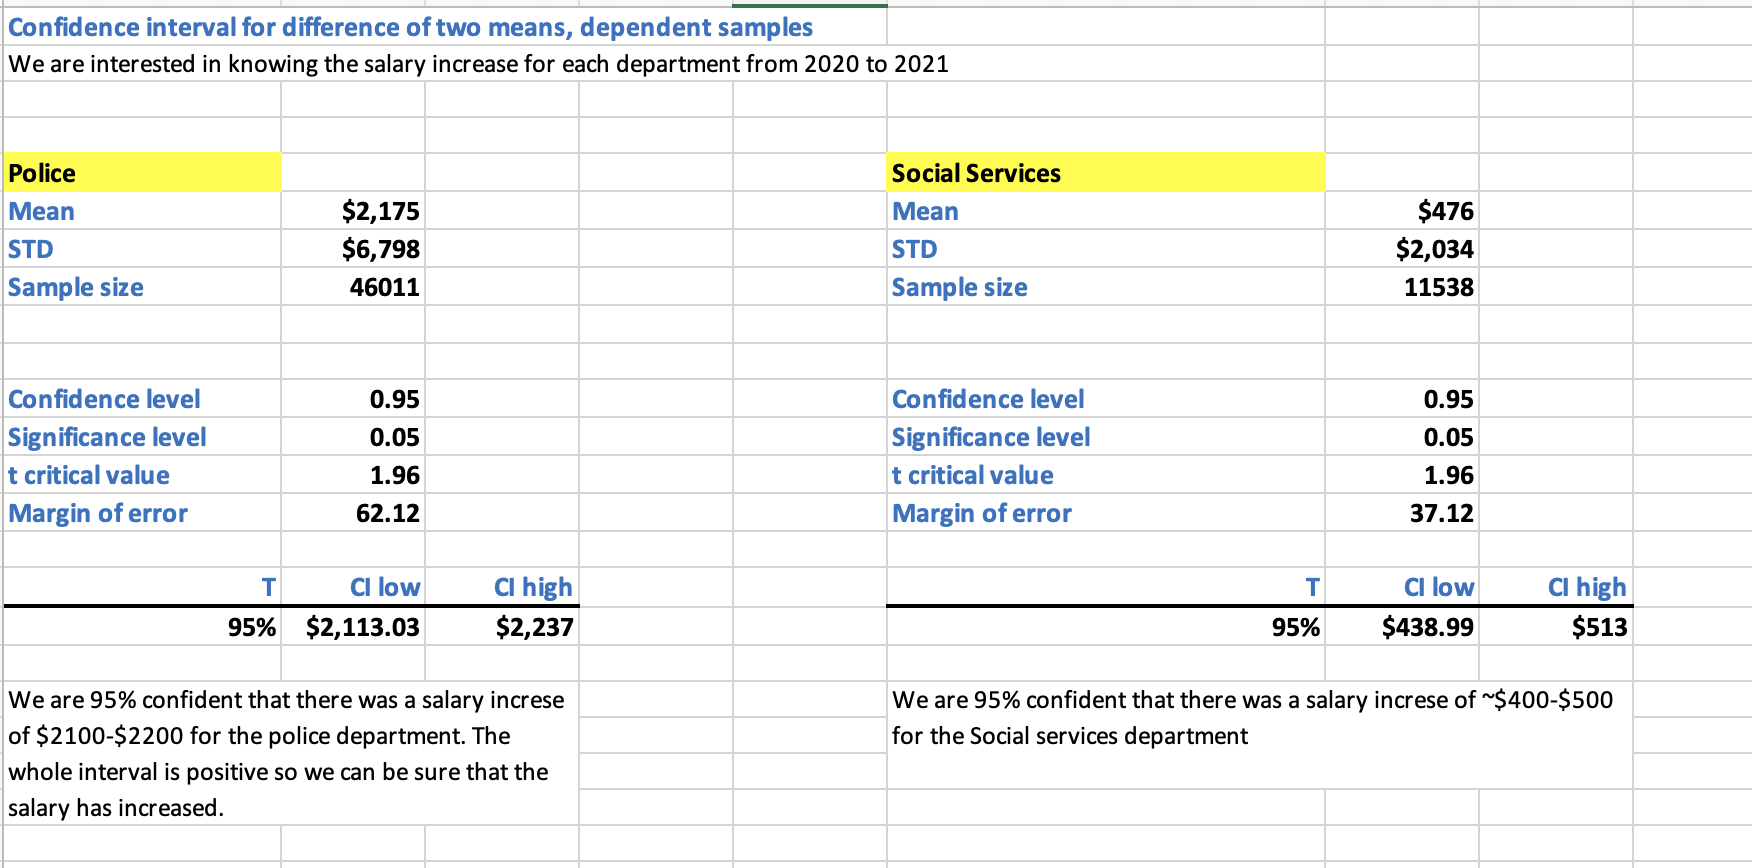
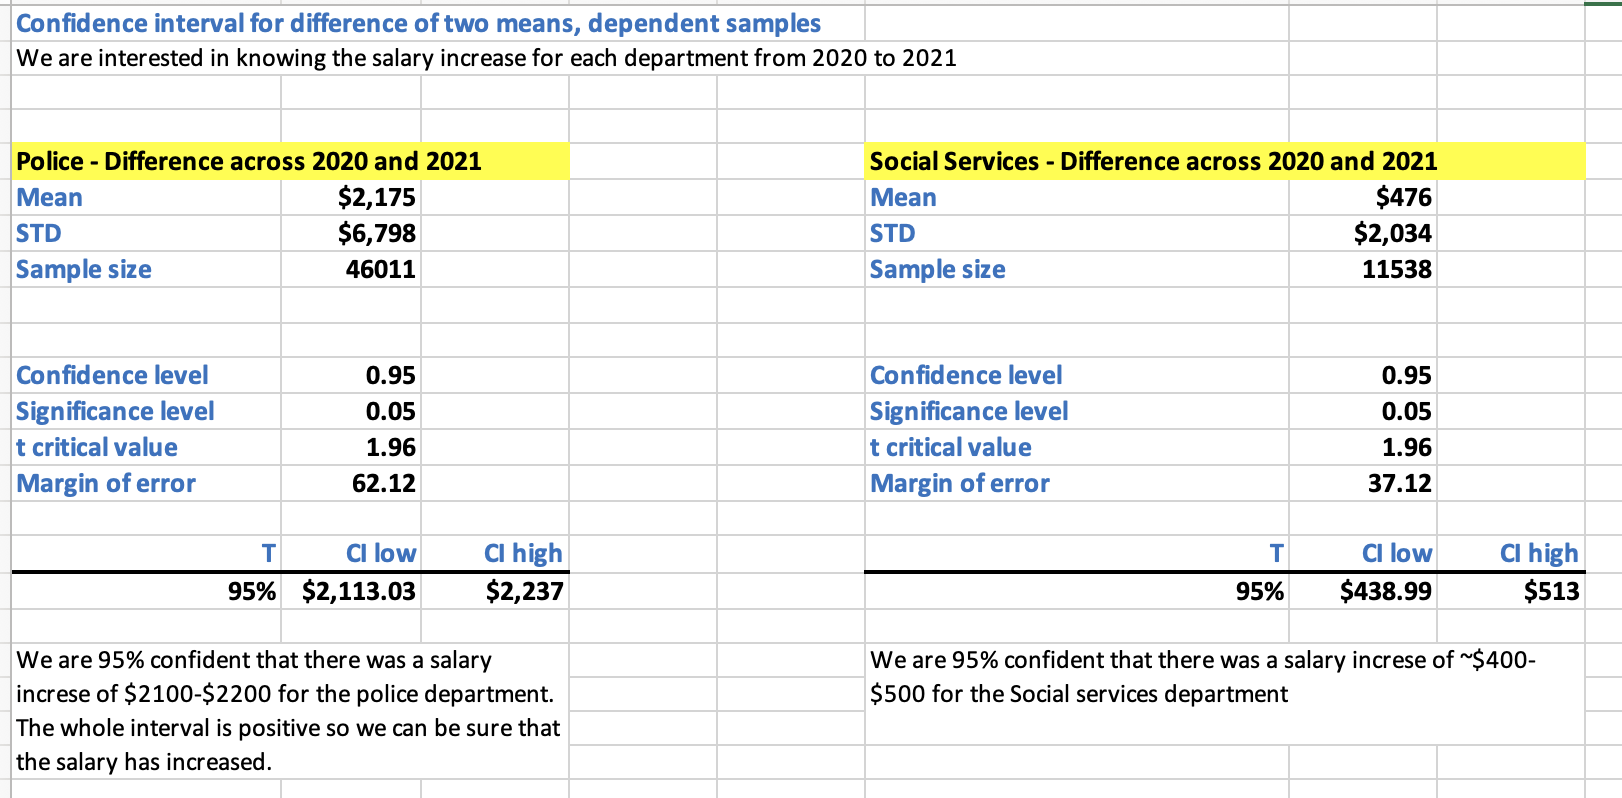
added episode 12

Changed region(s): [[0.0, 0.391, 1.0, 0.9925], [0.0, 0.0, 1.0, 0.3609]]

diff --git a/_posts/2024-04-25-episode12.md b/_posts/2024-04-25-episode12.md
@@ -42,9 +42,11 @@ We make the following observations and come up with relevant questions related t
 
 ### Inferential Statistics:  
 
-1. ### Single sample, Confidence Interval for Mean: 
+1. ### Confidence Interval for Mean, Single population: 
 
-+ <span style="color:blue">Step 2(a): If we know the population variance for the salary of each department, calculate the confidence interval for the mean salary of a police officer and a social worker in New York for the year 2020. Assuming that the police department's salary has a population standard deviation of $80k and social services has a population standard deviation of $60k.</span>  
++ <span style="color:blue">Step 2(a): If we know the population variance for the salary of each department, calculate the confidence interval for the mean salary of a police officer and a social worker in New York for the year 2020. 
+
+Assume that the police department's salary has a population standard deviation of $80k and social services has a population standard deviation of $60k.</span>  
 
 Refer to sheet **"1. Known variance, CI, z-table"** in inferential_stats_case_study.xlsx [1].  
 
@@ -53,7 +55,7 @@ Refer to sheet **"1. Known variance, CI, z-table"** in inferential_stats_case_st
   <figcaption>Case 1: Confidence intervals. Population known, z-table. </figcaption>
 </figure>  
 
-<p style="color:blue"> **Interpretation:** We are 95% confident that a police officer's salary will be from $67,794 to $69,256 and a social worker's salary will be from $57,861 to $60,050 in NYC in 2020.</p>
+<p style="color:red"> Interpretation: We are 95% confident that a police officer's salary will be from $67,794 to $69,256 and a social worker's salary will be from $57,861 to $60,050 in NYC in 2020.</p>
 
 + <span style="color:blue">Step 2(b): If we do not know the population variance for the salary of each department, calculate the confidence interval for the mean salary of a police officer and a social worker in New York for the year 2020.</span>
 
@@ -65,7 +67,22 @@ Refer to sheet **"2. Unkown var, CI, t-table"** in inferential_stats_case_study.
   <figcaption>Case 2: Confidence intervals. Population uknown, t-table</a></figcaption>
 </figure> 
 
-<p style="color:blue"> **Interpretation:** We are 95% confident that a police officer's salary will be from $68,219 to $68,830 and a social worker's salary will be from $58,511 to $59,400 in NYC in 2020.</p>
+<p style="color:red"> Interpretation: We are 95% confident that a police officer's salary will be from $68,219 to $68,830 and a social worker's salary will be from $58,511 to $59,400 in NYC in 2020.</p>
+
+2. ### Confidence Interval for Mean Difference, Dependent Samples: 
+
++ <span style="color:blue">Step 2(a): We are interested in knowing the salary increase for each department from 2020 to 2021. Calculate the confidence interval for that increase with 95% confidence.</span>
+
+
+Refer to sheet **"3. Two Means Dependent Samples"** in inferential_stats_case_study.xlsx [1].  
+
+<figure>
+  <img src="{{site.baseurl}}/assets/episode_12_image_7.png">  
+  <figcaption>Case 3: Confidence interval for difference of two means, dependent samples</a></figcaption>
+</figure> 
+
+<p style="color:red"> Interpretation: We are 95% confident that a police officer's salary will be from $68,219 to $68,830 and a social worker's salary will be from $58,511 to $59,400 in NYC in 2020.</p>
+
 
 + <span style="color:blue">What are some of the ways you can convert non-gaussian features to gaussian and why is it important?</span>  
   If we are estimating the probability distribution of the negative (non-anomalous) examples using a gaussian distribution that it is important to convert all the features to a gaussian distribution. 
